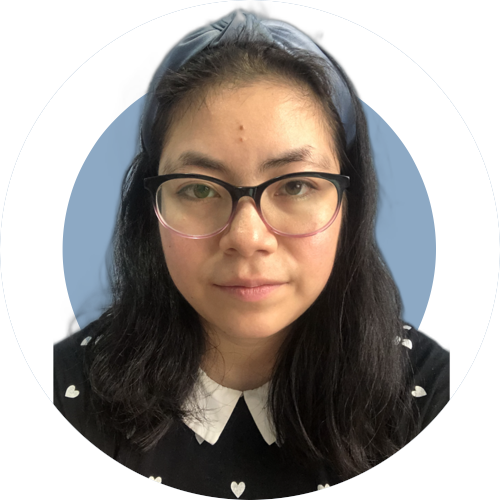
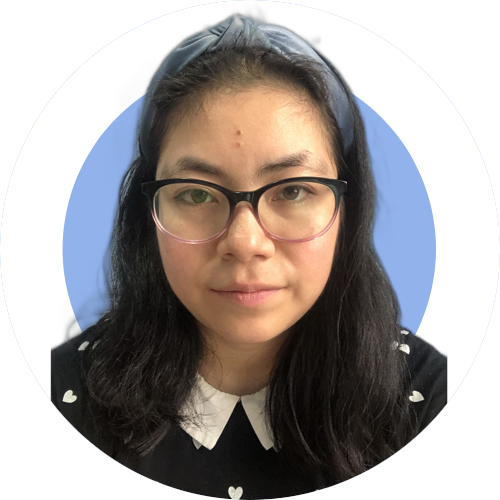
Brand updated

diff --git a/style.css b/style.css
@@ -1,8 +1,8 @@
 :root {
-  --main-color: #8da9c4;
-  --dark-color: #0B2545;
+  --main-color: #91B2EB;
+  --dark-color: #134074;
   --highlight-color: #EEF4ED;
-  --darkblue-color: #134074;
+  --darkblue-color: #EEF4ED;
 }
 
 body {
@@ -79,7 +79,7 @@ a:hover {
 }
 
 .dark {
-  background: var(--darkblue-color);
+  background: var(--dark-color);
 }
 
 .extradark {
